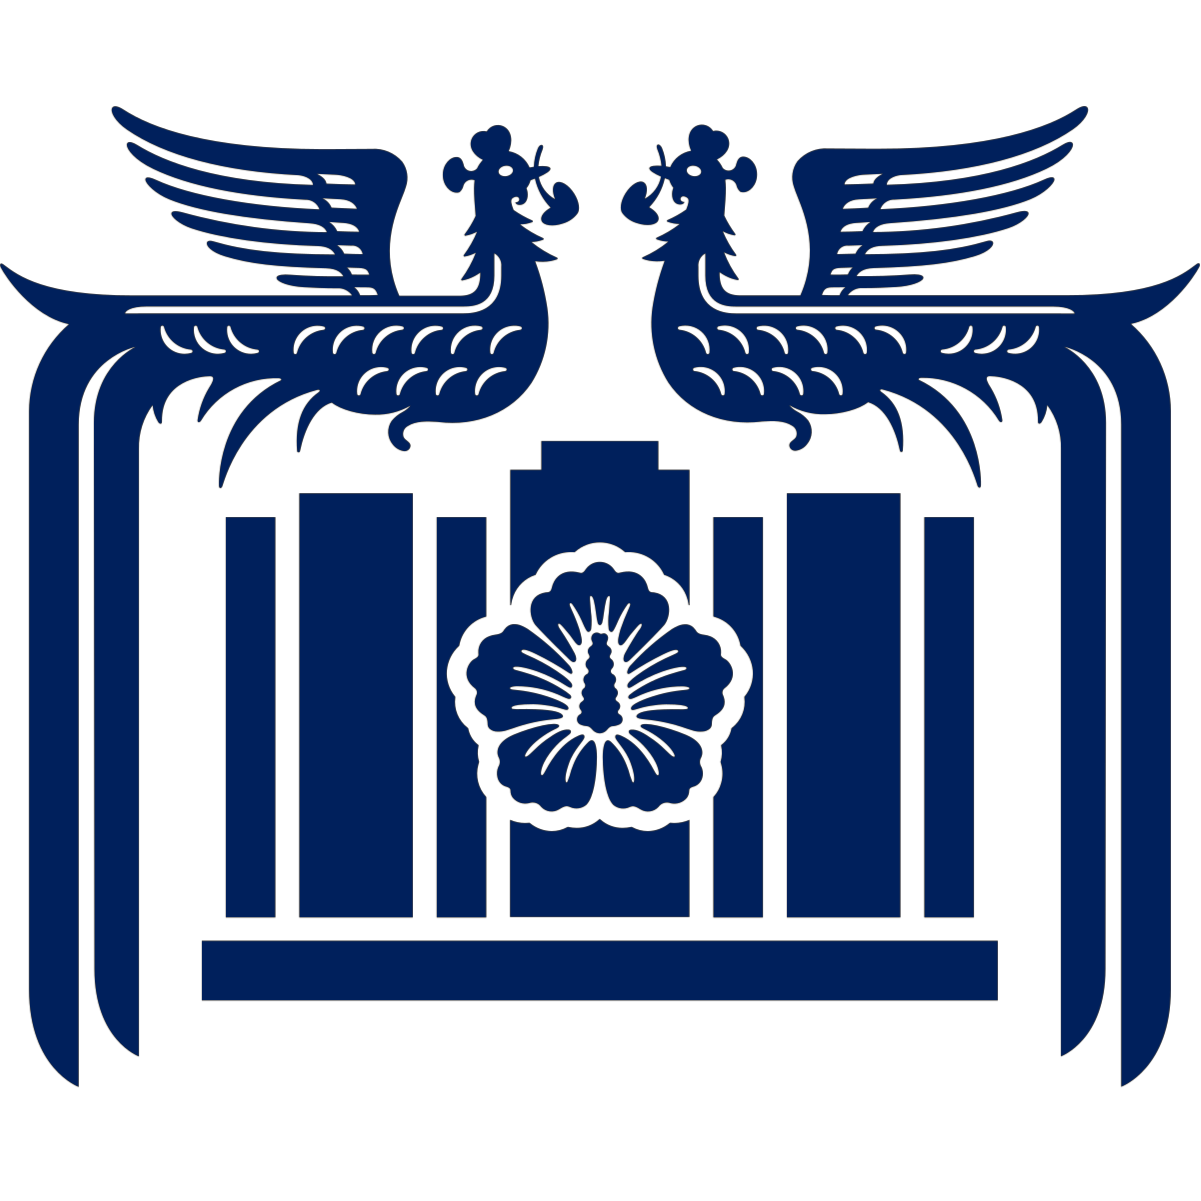
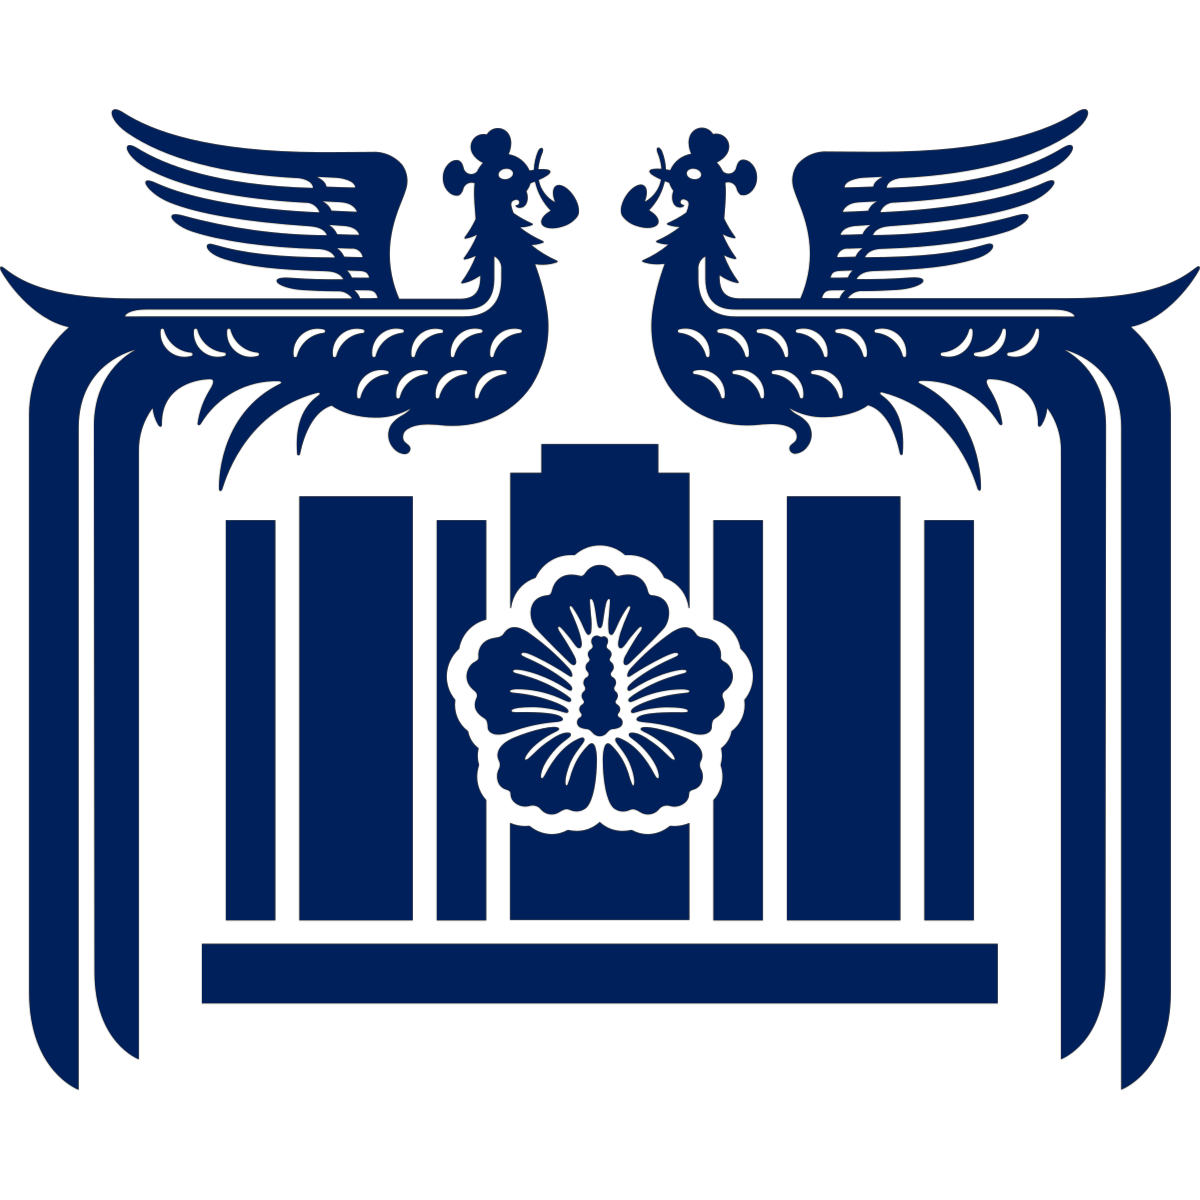
feat(commentType): era-aware historical lineage + 대통령실 split
UI plumbing for the new historical commentTypes so era-correct rows render
with their own tab + bracket color + icon (no collapse with the modern
국민의힘/더불어민주당). New /news recent-articles tabs filter to current
types only — past lineage names are hidden from that top-level filter
(per owner direction; they still appear inside individual news rows).

- enum: 8 era parties + 대통령실 + CURRENT_COMMENT_TYPES set
- comment.ts: bracket color + image + qualification + rank for each
- newsContents.util.ts: lineage-aware sort within slot (oldest at bottom)
- weekly.tsx: SUMMARY_ORDER includes all variants
- recentarticles: filter categories to CURRENT_COMMENT_TYPES only

Logos: 256-px PNGs from Wikimedia Commons (rendered from infobox SVGs),
auto-cropped to near-square. 청와대.png replaced with the canonical
2013-2022 emblem; the prior 청와대 file (윤석열-era artifact) promoted
to 대통령실.png.

diff --git a/utils/interface/news/comment.ts b/utils/interface/news/comment.ts
@@ -36,7 +36,16 @@ export const typeQualification = (type: commentType) => {
     //   return CommentQualification.YVOTETYPE;
     case commentType.더불어민주당:
     case commentType.국민의힘:
+    case commentType.한나라당:
+    case commentType.새누리당:
+    case commentType.자유한국당:
+    case commentType.미래통합당:
+    case commentType.통합민주당:
+    case commentType.민주당:
+    case commentType.민주통합당:
+    case commentType.새정치민주연합:
     case commentType.청와대:
+    case commentType.대통령실:
     case commentType.입법부:
     case commentType.행정부:
     case commentType.헌법재판소:
@@ -67,7 +76,22 @@ export const commentTypeColor = (type: commentType) => {
       return 'rgb(11, 104, 179)';
     case commentType.국민의힘:
       return 'rgb(230, 30, 43)';
+    // 한나라당 lineage — conservative, blue→red shift in 2012.
+    case commentType.한나라당:
+      return 'rgb(0, 75, 156)';
+    case commentType.새누리당:
+    case commentType.자유한국당:
+    case commentType.미래통합당:
+      return 'rgb(230, 30, 43)';
+    // 민주당 lineage — green family pre-2014, blue from 새정연 onward.
+    case commentType.통합민주당:
+    case commentType.민주당:
+      return 'rgb(73, 170, 78)';
+    case commentType.민주통합당:
+    case commentType.새정치민주연합:
+      return 'rgb(11, 104, 179)';
     case commentType.청와대:
+    case commentType.대통령실:
       return 'rgb(0, 32, 92)';
     case commentType.입법부:
       return 'rgb(76, 182, 153)';
@@ -88,8 +112,26 @@ export const commentTypeImg = (type: commentType) => {
       return '/assets/img/더불어민주당.png';
     case commentType.국민의힘:
       return '/assets/img/국민의힘.png';
+    case commentType.한나라당:
+      return '/assets/img/한나라당.png';
+    case commentType.새누리당:
+      return '/assets/img/새누리당.png';
+    case commentType.자유한국당:
+      return '/assets/img/자유한국당.png';
+    case commentType.미래통합당:
+      return '/assets/img/미래통합당.png';
+    case commentType.통합민주당:
+      return '/assets/img/통합민주당.png';
+    case commentType.민주당:
+      return '/assets/img/민주당.png';
+    case commentType.민주통합당:
+      return '/assets/img/민주통합당.png';
+    case commentType.새정치민주연합:
+      return '/assets/img/새정치민주연합.png';
     case commentType.청와대:
       return '/assets/img/청와대.png';
+    case commentType.대통령실:
+      return '/assets/img/대통령실.png';
     case commentType.입법부:
       return '/assets/img/입법부.png';
     case commentType.행정부:
@@ -106,18 +148,36 @@ export const commentTypeImg = (type: commentType) => {
 };
 
 export const getCommentTypeRank = (type: commentType) => {
+  // Conservative lineage variants share the conservative slot;
+  // progressive lineage variants share the progressive slot. Within
+  // a slot, individual rows are ordered by date.
   const rankQueue = [
     commentType.와이보트,
     commentType.입법부,
     commentType.헌법재판소,
+    // 청와대 lineage shares one slot; 대통령실 sits adjacent so columns
+    // for an era-spanning aggregate news still group together.
     commentType.청와대,
+    commentType.대통령실,
     commentType.행정부,
+    // Conservative lineage (oldest → newest)
+    commentType.한나라당,
+    commentType.새누리당,
+    commentType.자유한국당,
+    commentType.미래통합당,
     commentType.국민의힘,
+    // Progressive lineage (oldest → newest)
+    commentType.통합민주당,
+    commentType.민주당,
+    commentType.민주통합당,
+    commentType.새정치민주연합,
     commentType.더불어민주당,
     commentType.기타,
   ];
 
-  return rankQueue.length - rankQueue.indexOf(type);
+  const idx = rankQueue.indexOf(type);
+  // Unknown types sort to the very end.
+  return idx < 0 ? 0 : rankQueue.length - idx;
 };
 
 // 코멘트 순서 정렬

diff --git a/utils/interface/news/index.ts b/utils/interface/news/index.ts
@@ -5,11 +5,42 @@ export enum commentType {
   입법부 = '입법부',
   행정부 = '행정부',
   청와대 = '청와대',
+  // 윤석열 정부 시기 (2022-05-10 ~ 2025-12-29) 한정 명칭. 외부 시기는 청와대.
+  대통령실 = '대통령실',
   국민의힘 = '국민의힘',
   더불어민주당 = '더불어민주당',
+  // Historical lineage names — see yvote_automation party_history.py.
+  // Backfill scrapes for past dates emit these instead of the modern
+  // canonical names.
+  한나라당 = '한나라당',
+  새누리당 = '새누리당',
+  자유한국당 = '자유한국당',
+  미래통합당 = '미래통합당',
+  통합민주당 = '통합민주당',
+  민주당 = '민주당',
+  민주통합당 = '민주통합당',
+  새정치민주연합 = '새정치민주연합',
   기타 = '기타',
   헌법재판소 = '헌법재판소',
 }
+
+// Set of commentTypes considered "current" — used by /news recent
+// articles to filter out historical-only buckets from the category
+// tabs (per owner direction). Past-name commentTypes still render
+// inside individual news rows where they exist as real DB rows.
+export const CURRENT_COMMENT_TYPES: ReadonlySet<commentType> = new Set([
+  commentType.와이보트,
+  commentType.입법부,
+  commentType.행정부,
+  // Whichever presidential-office name is current right now (the
+  // current era is 청와대 again as of 2025-12-29). 대통령실 is a
+  // historical-only commentType from /news recent articles' POV.
+  commentType.청와대,
+  commentType.국민의힘,
+  commentType.더불어민주당,
+  commentType.기타,
+  commentType.헌법재판소,
+]);
 
 export enum NewsType {
   bill = 'bill',

diff --git a/components/news/recentarticles/index.tsx b/components/news/recentarticles/index.tsx
@@ -6,7 +6,7 @@ import { RecentArticleQueryOption } from '@queryOption/recentArticleQueryOption'
 import { useQuery } from '@tanstack/react-query';
 import { useSlide } from '@utils/hook/useSlide';
 import CommentTypeIcon from '@components/common/CommentTypeIcon';
-import { commentType, recentArticleType } from '@utils/interface/news';
+import { commentType, CURRENT_COMMENT_TYPES, recentArticleType } from '@utils/interface/news';
 import { commentTypeColor } from '@utils/interface/news/comment';
 import { RgbToRgba } from '@utils/tools';
 import { useEffect, useState } from 'react';
@@ -14,7 +14,16 @@ import styled from 'styled-components';
 import ArticleBox from './articleBox';
 import { NewArticlesFallback } from './index.fallback';
 
-const categories = ['전체', ...Object.values(commentType).filter((c) => c !== commentType.와이보트)] as Array<recentArticleType>;
+// Recent-articles category tabs only show the *current* commentTypes — past
+// lineage names (한나라당/민주당/etc.) are hidden from this top-level filter
+// per owner direction (the tabs are a snapshot of what's live now). Past
+// commentTypes still render inside individual news rows where they exist.
+const categories = [
+  '전체',
+  ...Object.values(commentType).filter(
+    (c) => c !== commentType.와이보트 && CURRENT_COMMENT_TYPES.has(c),
+  ),
+] as Array<recentArticleType>;
 interface SlideContentProps {
   commentType: recentArticleType;
   filteredArticles: any[];

diff --git a/components/news/newsContents/newsContents.util.ts b/components/news/newsContents/newsContents.util.ts
@@ -8,10 +8,30 @@ export const getOrder = (comment: commentType) => {
       return 6;
     case commentType.청와대:
       return 5;
+    case commentType.대통령실:
+      return 4.95;
+    // Conservative lineage shares slot 4 (oldest era at the bottom of the slot).
     case commentType.국민의힘:
-      return 4;
+      return 4.5;
+    case commentType.미래통합당:
+      return 4.4;
+    case commentType.자유한국당:
+      return 4.3;
+    case commentType.새누리당:
+      return 4.2;
+    case commentType.한나라당:
+      return 4.1;
+    // Progressive lineage shares slot 3.
     case commentType.더불어민주당:
-      return 3;
+      return 3.5;
+    case commentType.새정치민주연합:
+      return 3.4;
+    case commentType.민주통합당:
+      return 3.3;
+    case commentType.민주당:
+      return 3.2;
+    case commentType.통합민주당:
+      return 3.1;
     case commentType.행정부:
       return 2;
     case commentType.기타:

diff --git a/components/news/types/weekly.tsx b/components/news/types/weekly.tsx
@@ -47,8 +47,16 @@ export default function WeeklyNewsLayout({ news }: NewsTypeLayoutProps) {
     };
 
     const SUMMARY_ORDER: string[] = [
-      commentType.와이보트, commentType.헌법재판소, commentType.청와대,
-      commentType.행정부, commentType.국민의힘, commentType.더불어민주당, commentType.기타,
+      commentType.와이보트, commentType.헌법재판소,
+      commentType.청와대, commentType.대통령실,
+      commentType.행정부,
+      // Conservative lineage (oldest → newest)
+      commentType.한나라당, commentType.새누리당, commentType.자유한국당,
+      commentType.미래통합당, commentType.국민의힘,
+      // Progressive lineage (oldest → newest)
+      commentType.통합민주당, commentType.민주당, commentType.민주통합당,
+      commentType.새정치민주연합, commentType.더불어민주당,
+      commentType.기타,
     ];
 
     return (news.summaries ?? [])
